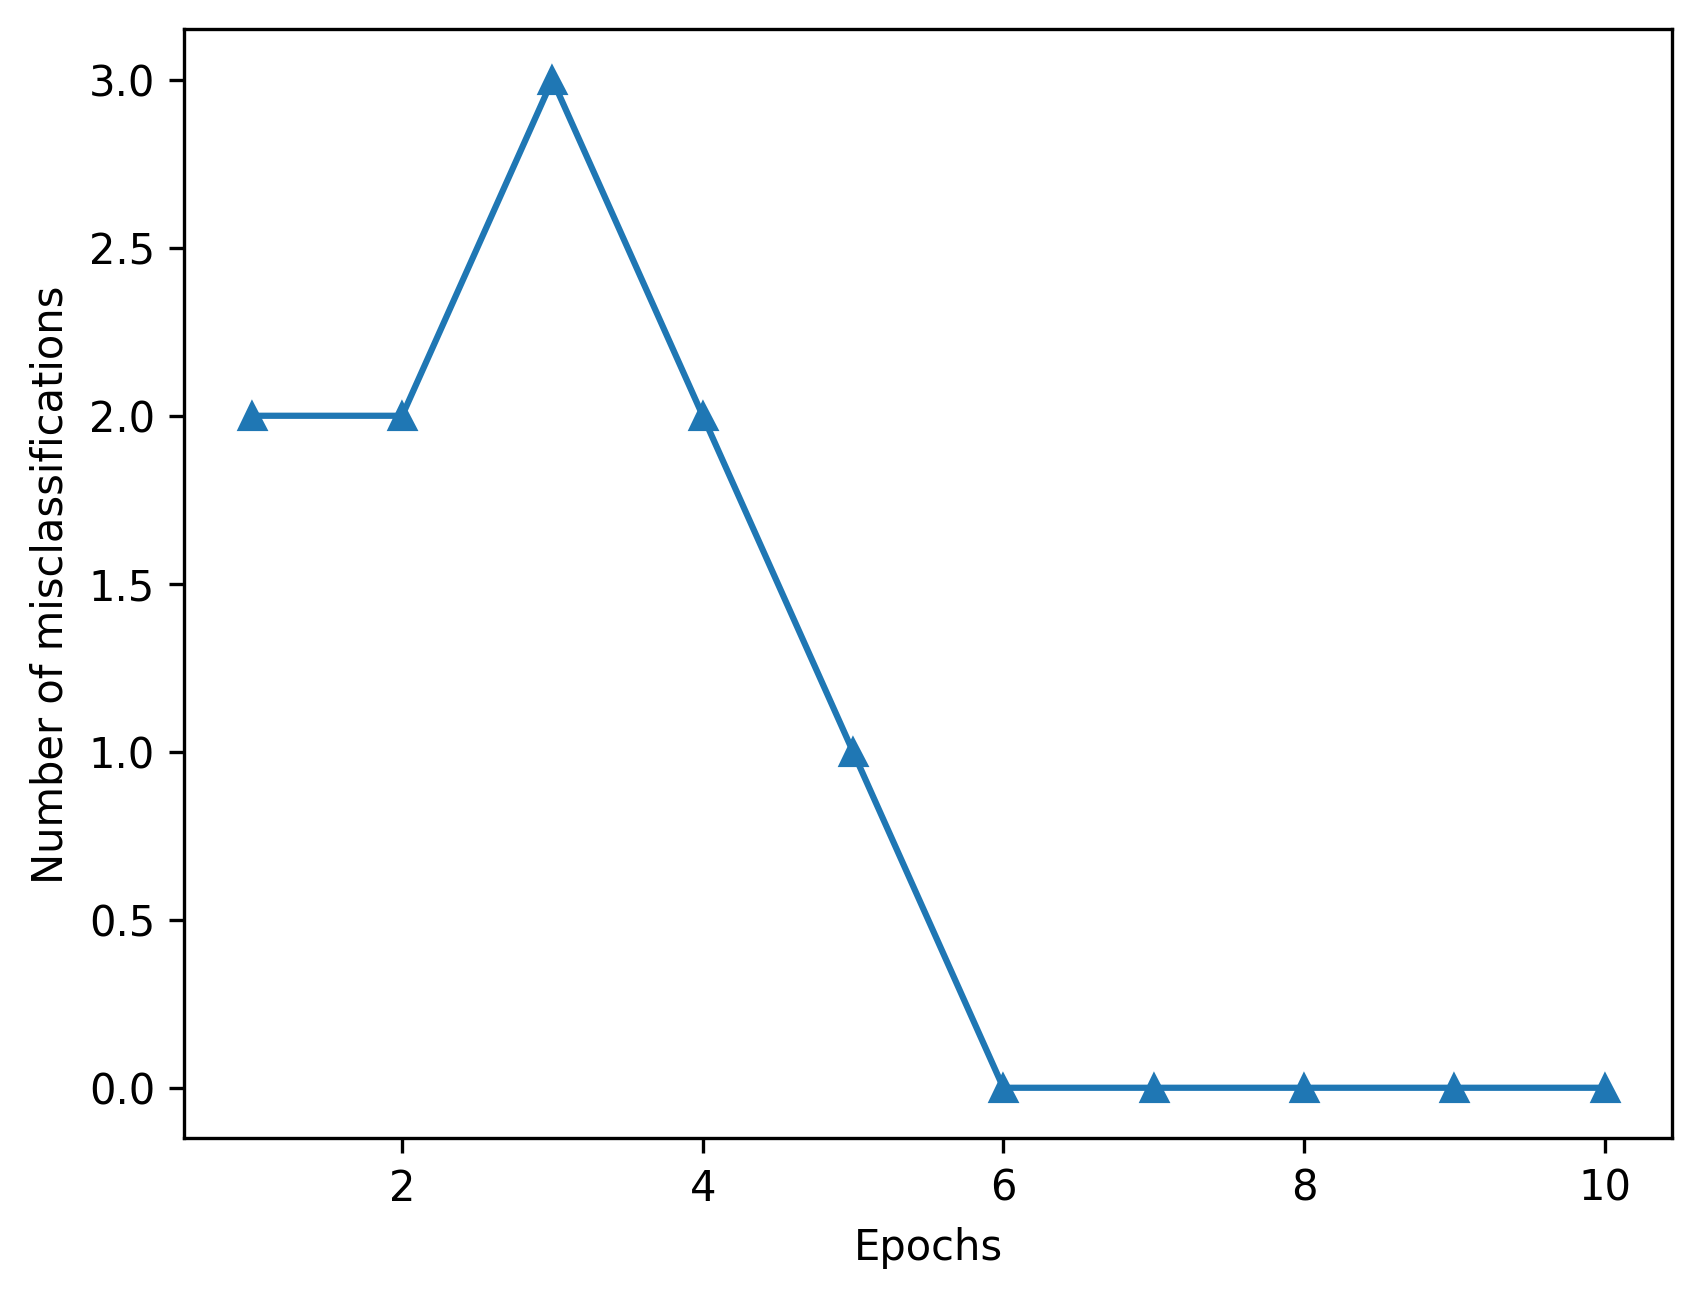
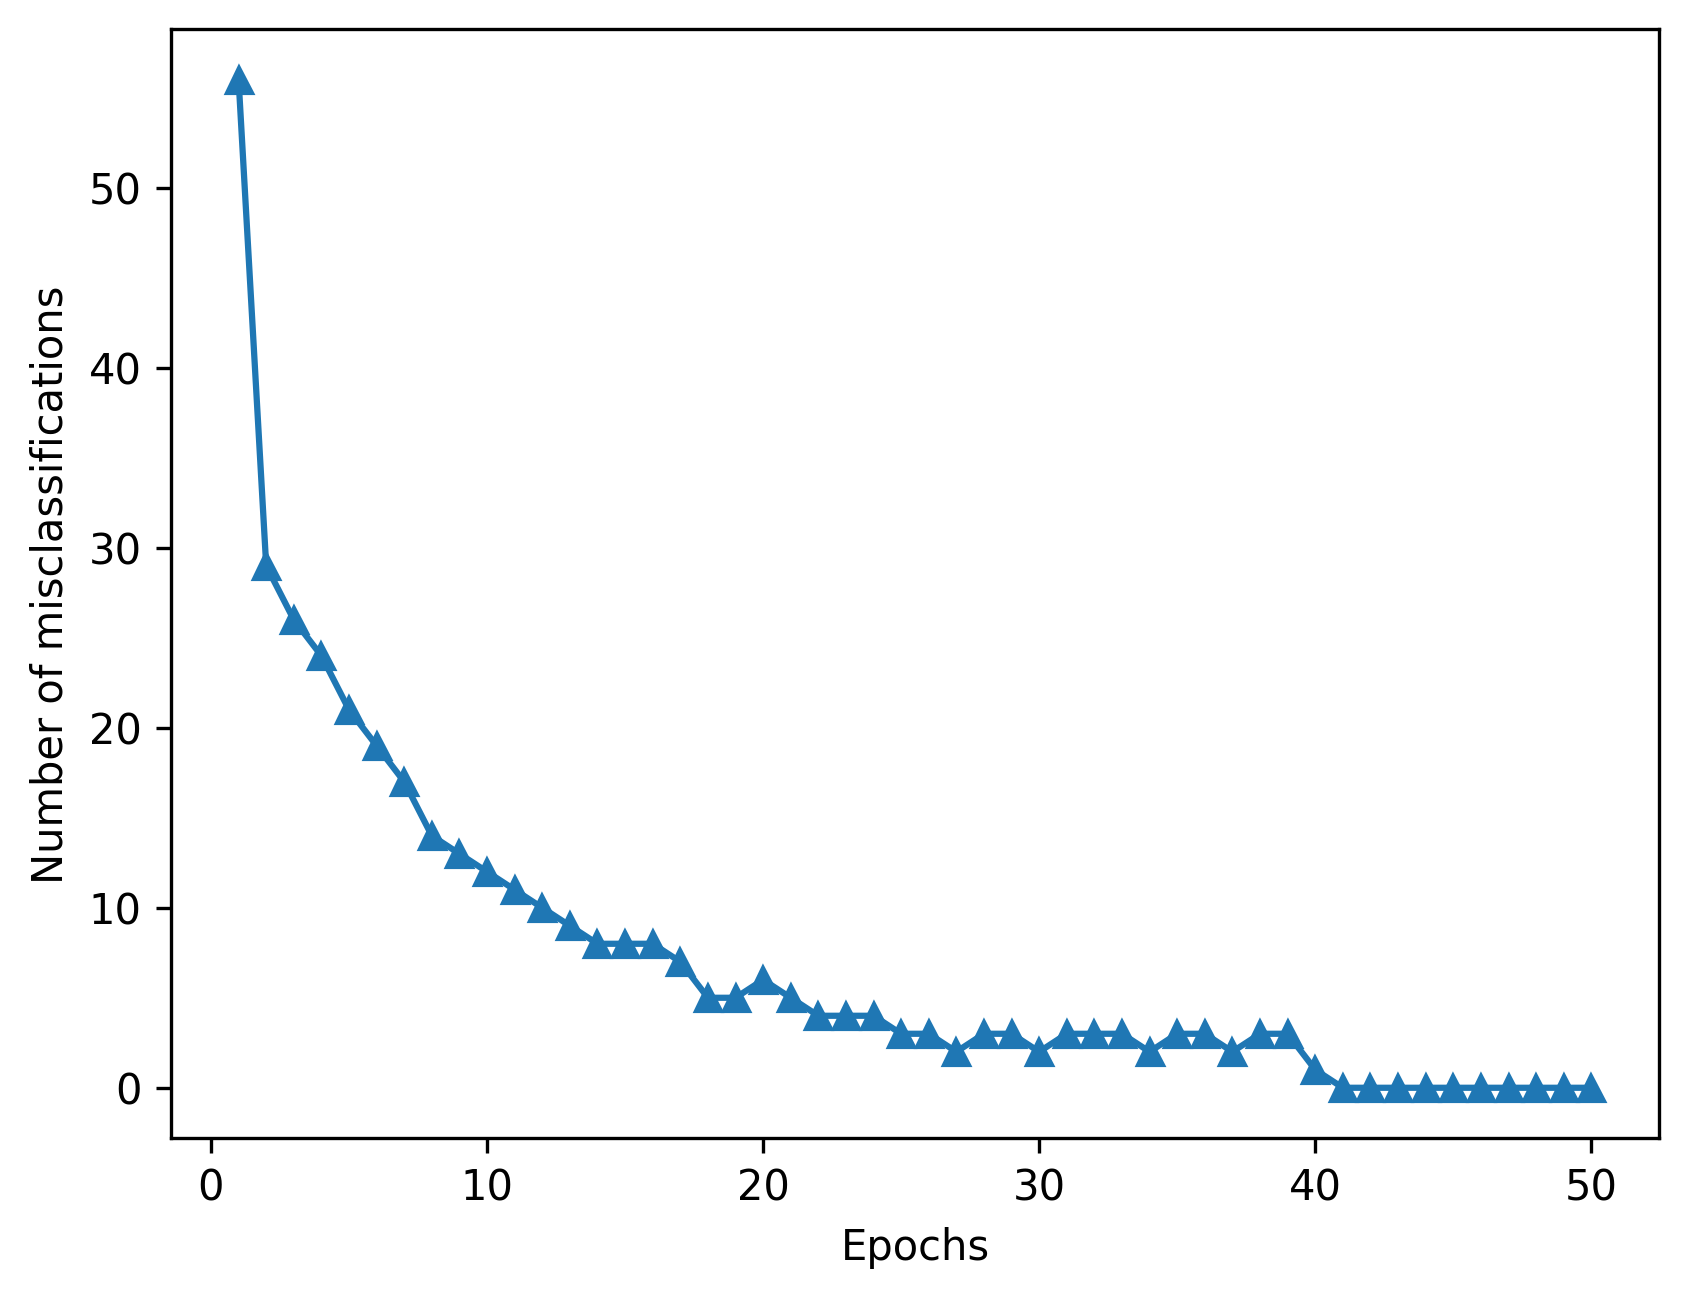
Add main_perceptron.py for Iris dataset analysis and Perceptron training

diff --git a/chap_1/main_perceptron.py b/chap_1/main_perceptron.py
@@ -39,7 +39,7 @@ plt.savefig('output.png', dpi=300, bbox_inches='tight')
 print('Plot saved to output.png')
 
 # iniciar a classe Perceptron
-ppn = Perceptron(eta=0.1, n_iter=10)
+ppn = Perceptron(eta=0.0001, n_iter=50)
 
 # treinar o modelo
 ppn.fit(X, y)
@@ -50,3 +50,4 @@ plt.plot(range(1, len(ppn.errors_) + 1), ppn.errors_, marker='^')
 plt.xlabel('Epochs')
 plt.ylabel('Number of misclassifications')
 plt.savefig('errors_plot.png', dpi=300, bbox_inches='tight')
+
